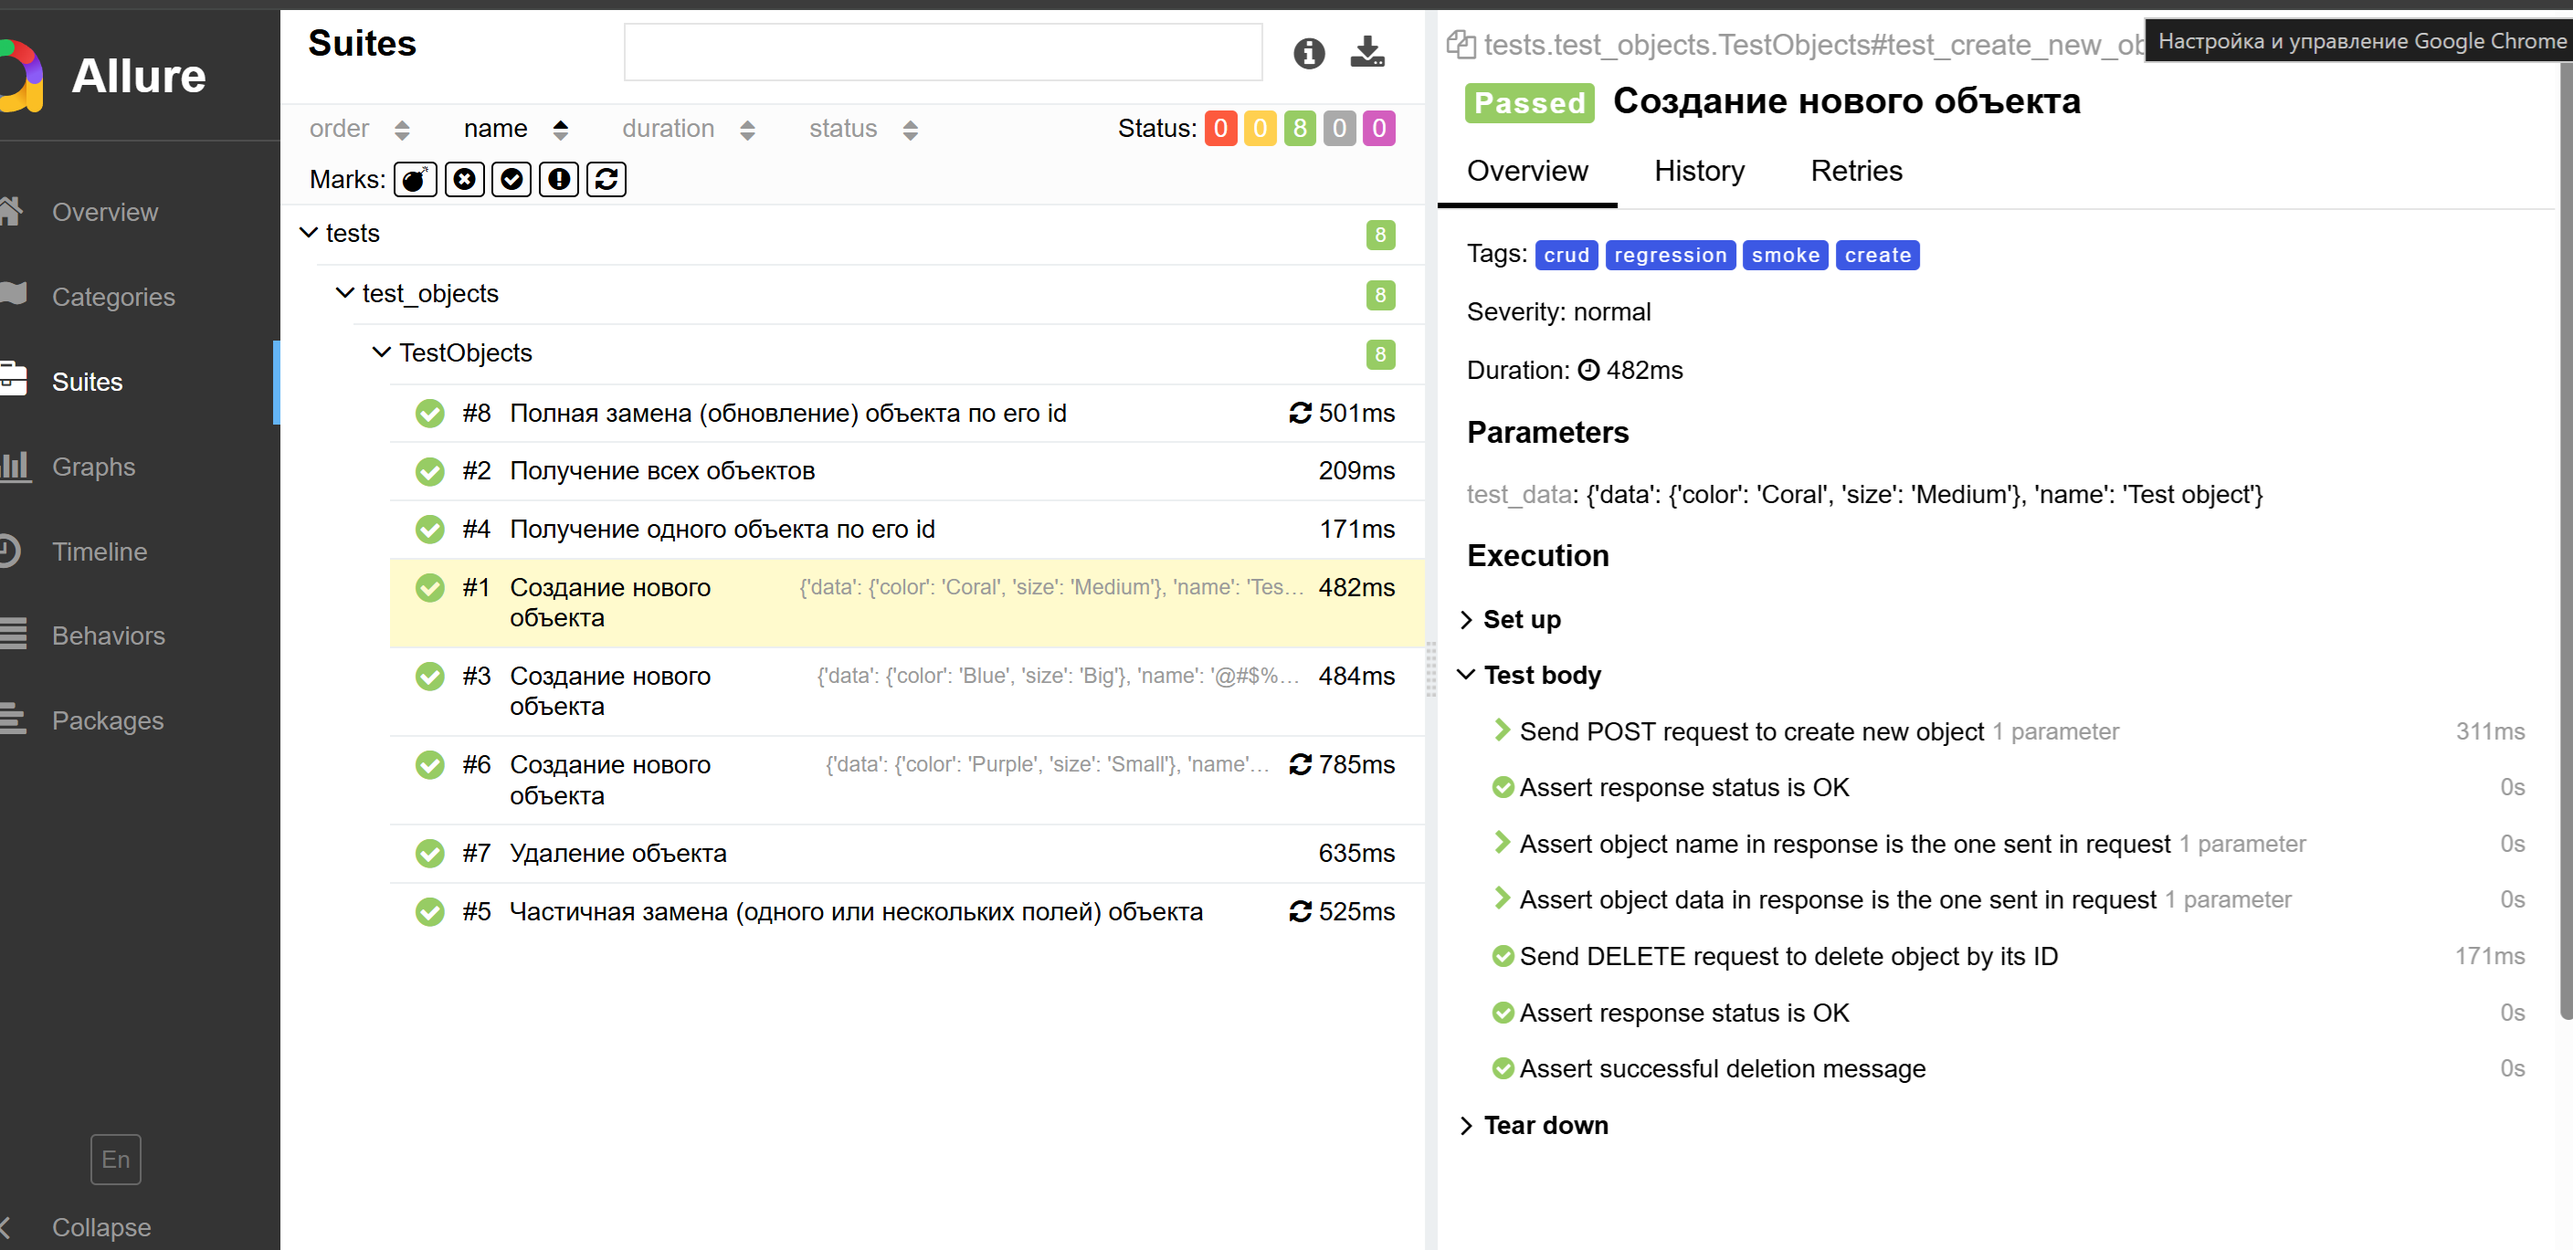
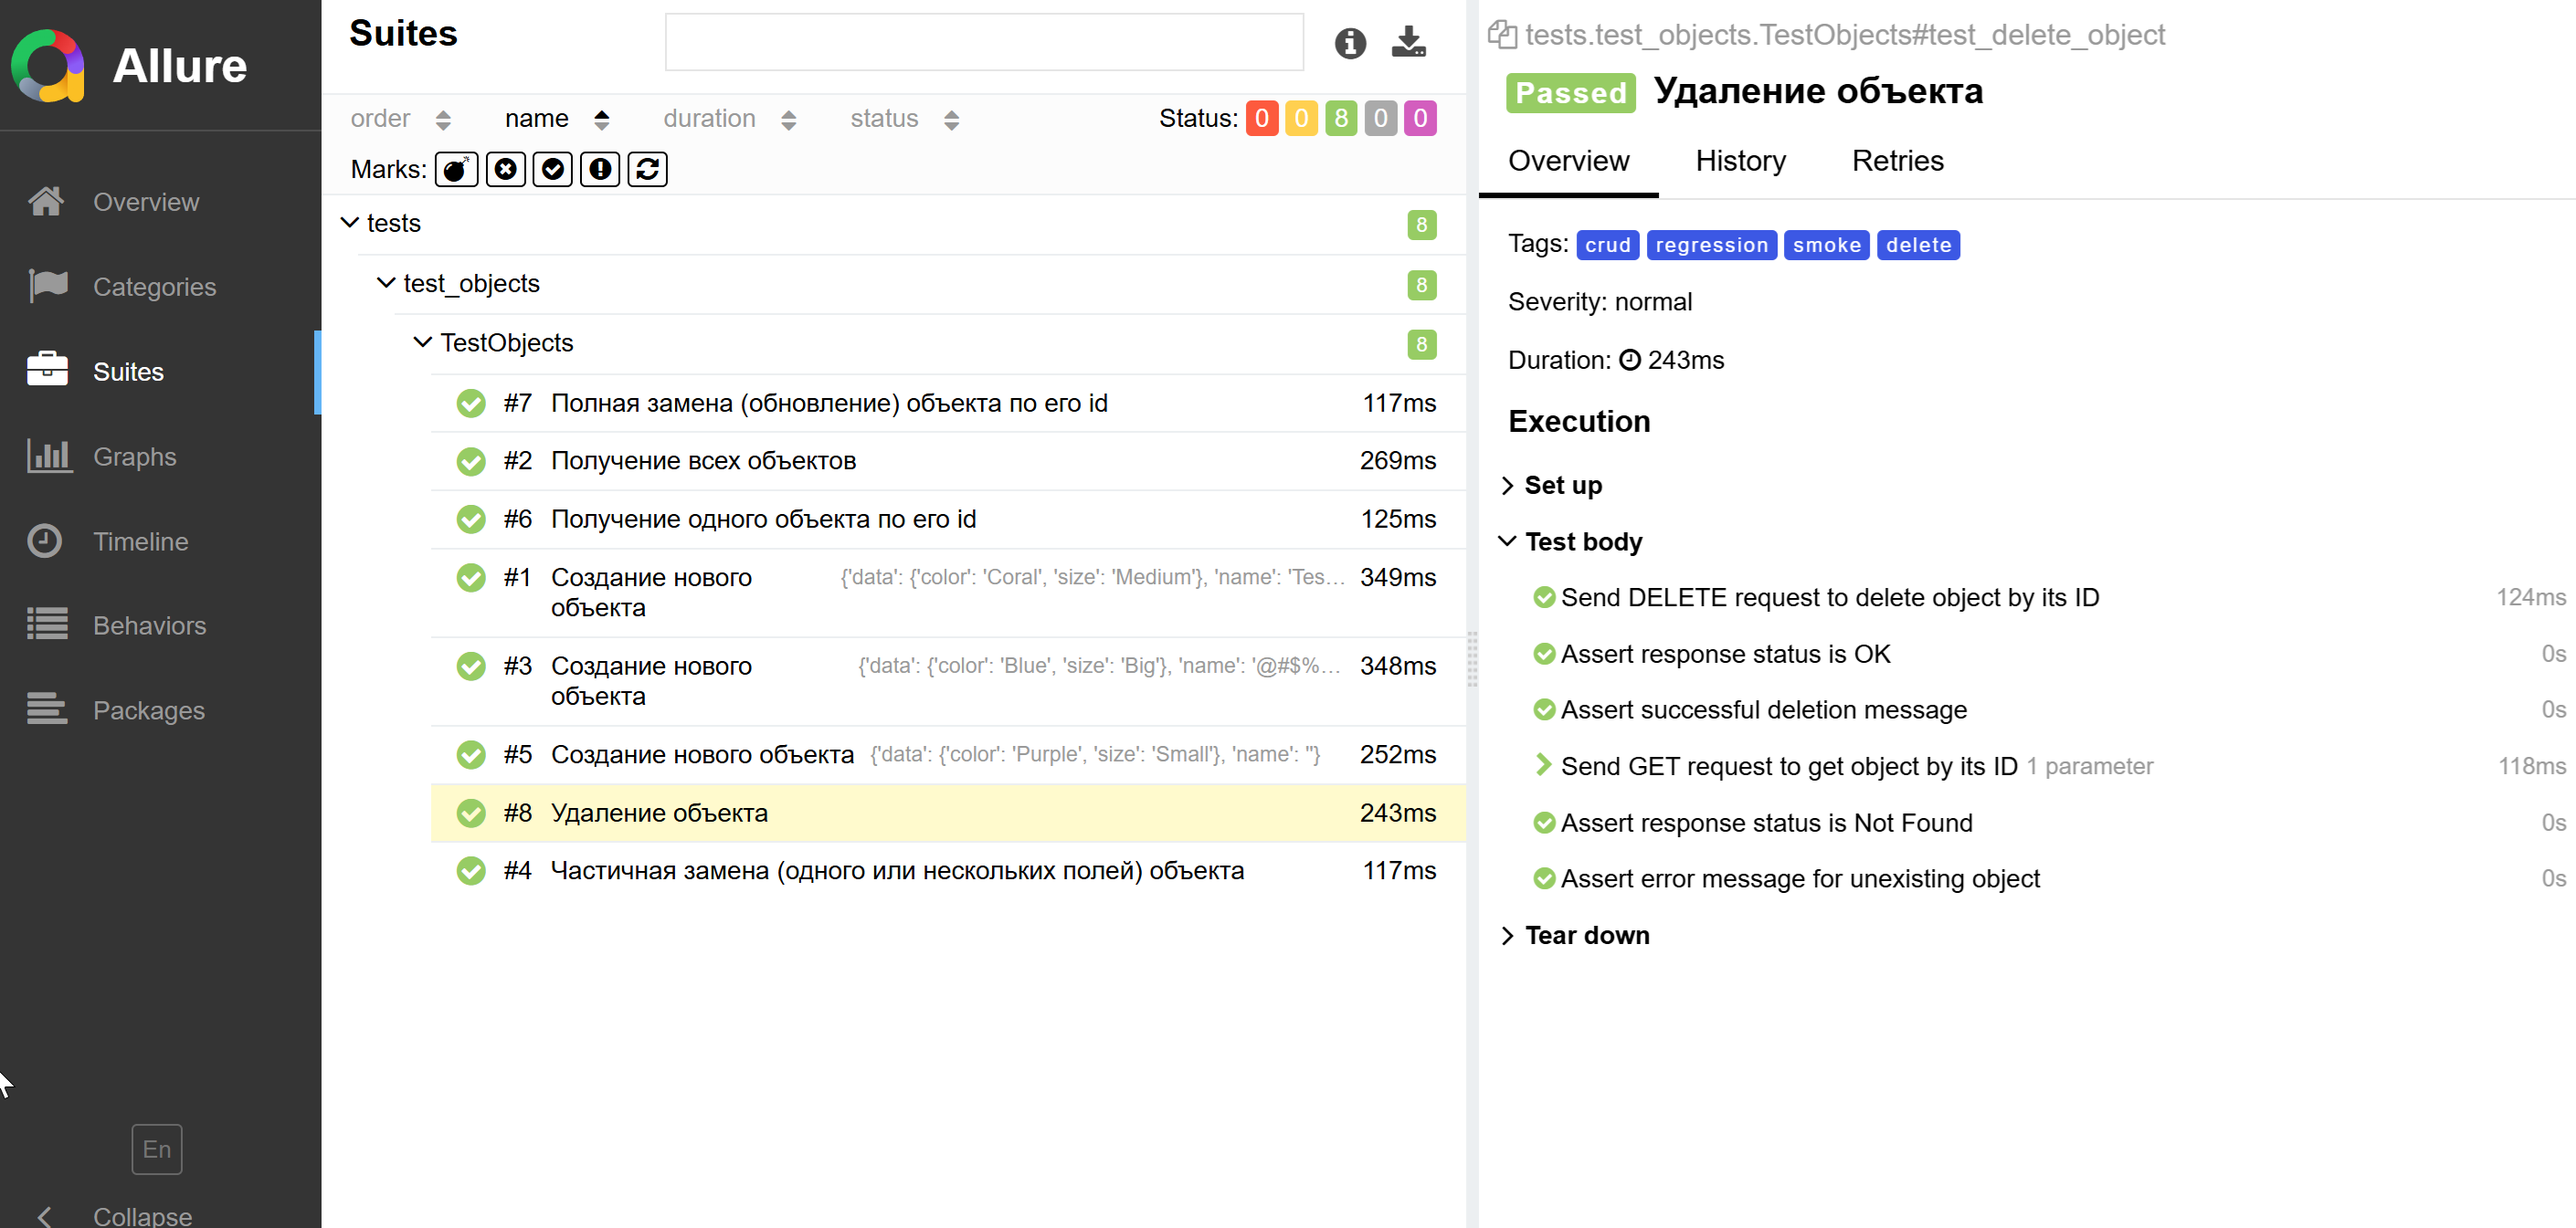
Переделала в соответствии с замечаниями

diff --git a/test_api_belova/tests/test_objects.py b/test_api_belova/tests/test_objects.py
@@ -4,12 +4,10 @@ import pytest
 from test_api_belova.endpoints import (
     CreateObject,
     DeleteObject,
-    GetObjects,
-    GetObject,
     UpdateObject,
     PartiallyUpdateObject,
 )
-from test_api_belova.models import RequestObjectModel
+from test_api_belova.schemas import RequestObjectSchema
 from test_api_belova.test_data import create_data, update_data, patch_data
 
 
@@ -21,10 +19,8 @@ class TestObjects:
     @allure.title('Получение всех объектов')
     @pytest.mark.smoke
     @pytest.mark.get
-    def test_get_all_objects(self):
-        get_objects_api = GetObjects()
-        get_objects_api.get_response()
-
+    def test_get_all_objects(self, get_objects_api):
+        get_objects_api.get_objects()
         get_objects_api.assert_response_is_200()
         get_objects_api.assert_has_objects()
 
@@ -33,13 +29,12 @@ class TestObjects:
     @allure.title('Получение одного объекта по его id')
     @pytest.mark.smoke
     @pytest.mark.get
-    def test_get_object(self, object_data):
-        data, id = object_data
-        get_object_api = GetObject(id)
-        get_object_api.get_response()
+    def test_get_object(self, created_object, get_object_api):
+        data, obj_id = created_object
+        get_object_api.get_object(obj_id)
 
         get_object_api.assert_response_is_200()
-        get_object_api.assert_object_id(id)
+        get_object_api.assert_object_id(obj_id)
         get_object_api.assert_object_name(data)
         get_object_api.assert_object_data(data)
 
@@ -55,31 +50,28 @@ class TestObjects:
     )
     def test_create_new_object(self, test_data):
         create_object_api = CreateObject()
-        create_object_data = RequestObjectModel(**test_data).model_dump()
-        create_object_api.post_response(create_object_data)
+        create_object_data = RequestObjectSchema(**test_data).model_dump()
+        create_object_api.create_object(create_object_data)
 
         create_object_api.assert_response_is_200()
         create_object_api.assert_object_name(create_object_data)
         create_object_api.assert_object_data(create_object_data)
 
-        id = create_object_api.id
-        delete_object_api = DeleteObject(id)
-        delete_object_api.delete_response()
-        delete_object_api.assert_response_is_200()
-        delete_object_api.assert_delete_message()
+        obj_id = create_object_api.id
+        delete_object_api = DeleteObject(obj_id)
+        delete_object_api.delete_object()
 
     @allure.feature('Objects')
     @allure.story('Update object')
     @allure.title('Полная замена (обновление) объекта по его id')
     @pytest.mark.update
-    def test_update_object(self, object_data):
-        id = object_data[1]
-        update_object_api = UpdateObject(id)
-        update_object_data = RequestObjectModel(**update_data).model_dump()
-        update_object_api.put_response(update_object_data)
+    def test_update_object(self, object_id):
+        update_object_api = UpdateObject(object_id)
+        update_object_data = RequestObjectSchema(**update_data).model_dump()
+        update_object_api.update_object(update_object_data)
 
         update_object_api.assert_response_is_200()
-        update_object_api.assert_object_id(id)
+        update_object_api.assert_object_id(object_id)
         update_object_api.assert_object_name(update_object_data)
         update_object_api.assert_object_data(update_object_data)
 
@@ -87,17 +79,17 @@ class TestObjects:
     @allure.story('Partially update object')
     @allure.title('Частичная замена (одного или нескольких полей) объекта')
     @pytest.mark.partially_update
-    def test_partially_update_object(self, object_data):
-        data, id = object_data
-        update_object_api = PartiallyUpdateObject(id)
-        update_object_data = RequestObjectModel(**patch_data).model_dump(
+    def test_partially_update_object(self, created_object, object_id):
+        data = created_object[0]
+        update_object_api = PartiallyUpdateObject(object_id)
+        update_object_data = RequestObjectSchema(**patch_data).model_dump(
             exclude_none=True
         )
-        update_object_api.patch_response(update_object_data)
+        update_object_api.partially_update_object(update_object_data)
         data.update(update_object_data)
 
         update_object_api.assert_response_is_200()
-        update_object_api.assert_object_id(id)
+        update_object_api.assert_object_id(object_id)
         update_object_api.assert_object_name(data)
         update_object_api.assert_object_data(data)
 
@@ -106,18 +98,12 @@ class TestObjects:
     @allure.title('Удаление объекта')
     @pytest.mark.smoke
     @pytest.mark.delete
-    def test_delete_object(self):
-        create_object_api = CreateObject()
-        create_object_data = RequestObjectModel(**create_data[0]).model_dump()
-        create_object_api.post_response(create_object_data)
-
-        id = create_object_api.id
-        delete_object_api = DeleteObject(id)
-        delete_object_api.delete_response()
+    def test_delete_object(self, object_id, get_object_api):
+        delete_object_api = DeleteObject(object_id)
+        delete_object_api.delete_object()
         delete_object_api.assert_response_is_200()
         delete_object_api.assert_delete_message()
 
-        get_object_api = GetObject(id)
-        get_object_api.get_response()
+        get_object_api.get_object(object_id)
         get_object_api.assert_response_is_404()
         get_object_api.assert_error_message()

diff --git a/test_api_belova/endpoints/get_object.py b/test_api_belova/endpoints/get_object.py
@@ -2,7 +2,7 @@ import allure
 import requests
 
 from test_api_belova.endpoints import BaseAPI
-from test_api_belova.models import ResponseObjectsList
+from test_api_belova.schemas import ResponseObjectsSchema
 
 
 class GetObjects(BaseAPI):
@@ -11,7 +11,7 @@ class GetObjects(BaseAPI):
         self.url = self.base_url + '/object'
 
     @allure.step('Send GET request to get all objects')
-    def get_response(self):
+    def get_objects(self):
         self.response = requests.get(self.url)
         self.status_code = self.response.status_code
         if self.status_code != 404:
@@ -19,7 +19,7 @@ class GetObjects(BaseAPI):
 
     @allure.step('Assert there is at least one object in the list')
     def assert_has_objects(self, min_count: int = 1):
-        self.object_data = ResponseObjectsList(**self.json)
+        self.object_data = ResponseObjectsSchema(**self.json)
         responce_data = self.object_data.model_dump()
 
         objects_list = responce_data['data']
@@ -30,16 +30,18 @@ class GetObjects(BaseAPI):
 
 
 class GetObject(BaseAPI):
-    def __init__(self, object_id):
+    def __init__(self):
         super().__init__()
-        self.url = self.base_url + f'/object/{object_id}'
+        self.url = None
         self.expected_text_in_error = 'Not Found'
         self.actual_text_in_error = None
 
-    @allure.step('Send GET request to get object info by its ID')
-    def get_response(self):
+    @allure.step('Send GET request to get object by its ID')
+    def get_object(self, object_id):
+        self.url = self.base_url + f'/object/{object_id}'
         self.response = requests.get(self.url)
         self.status_code = self.response.status_code
+
         if self.status_code != 404:
             self.json = self.response.json()
         self.actual_text_in_error = self.response.text

diff --git a/test_api_belova/conftest.py b/test_api_belova/conftest.py
@@ -1,7 +1,12 @@
 import pytest
 
-from test_api_belova.endpoints import CreateObject, DeleteObject
-from test_api_belova.models import RequestObjectModel
+from test_api_belova.endpoints import (
+    CreateObject,
+    DeleteObject,
+    GetObjects,
+    GetObject,
+)
+from test_api_belova.schemas import RequestObjectSchema
 from test_api_belova.test_data import create_data
 
 
@@ -20,20 +25,28 @@ def before_and_after_each():
 
 
 @pytest.fixture
-def object_data():
-    create_object_api = CreateObject()
-    create_object_data = RequestObjectModel(**create_data[0]).model_dump()
-    create_object_api.post_response(create_object_data)
+def get_objects_api():
+    return GetObjects()
 
-    create_object_api.assert_response_is_200()
-    create_object_api.assert_object_name(create_object_data)
-    create_object_api.assert_object_data(create_object_data)
 
-    id = create_object_api.id
-    yield create_object_data, id
+@pytest.fixture
+def get_object_api():
+    return GetObject()
 
-    id = create_object_api.id
-    delete_object_api = DeleteObject(id)
-    delete_object_api.delete_response()
-    delete_object_api.assert_response_is_200()
-    delete_object_api.assert_delete_message()
+
+@pytest.fixture
+def created_object():
+    create_api = CreateObject()
+    test_data = RequestObjectSchema(**create_data[0]).model_dump()
+    create_api.create_object(test_data)
+    obj_id = create_api.id
+
+    yield test_data, obj_id
+
+    delete_api = DeleteObject(obj_id)
+    delete_api.delete_object()
+
+
+@pytest.fixture
+def object_id(created_object):
+    return created_object[1]

diff --git a/test_api_belova/schemas/objects_schemas.py b/test_api_belova/schemas/objects_schemas.py
@@ -1,13 +1,13 @@
 from pydantic import BaseModel, Field, model_validator
 
 
-class DataModel(BaseModel):
+class DataSchema(BaseModel):
     color: str = Field(description='Цвет объекта')
     size: str = Field(description='Размер объекта')
 
 
-class RequestObjectModel(BaseModel):
-    data: DataModel | None = Field(default=None, description='Данные объекта')
+class RequestObjectSchema(BaseModel):
+    data: DataSchema | None = Field(default=None, description='Данные объекта')
     name: str | None = Field(default=None, description='Название объекта')
 
     @model_validator(mode='after')
@@ -20,13 +20,13 @@ class RequestObjectModel(BaseModel):
         return values
 
 
-class ResponseObjectModel(BaseModel):
-    data: DataModel
+class ResponseObjectSchema(BaseModel):
+    data: DataSchema
     id: int = Field(description='Уникальный идентификатор объекта')
     name: str = Field(description='Название объекта')
 
 
-class ResponseObjectsList(BaseModel):
-    data: list[ResponseObjectModel] = Field(
-        description='Список объектов ResponseObjectModel'
+class ResponseObjectsSchema(BaseModel):
+    data: list[ResponseObjectSchema] = Field(
+        description='Список объектов ResponseObjectSchema'
     )

diff --git a/test_api_belova/endpoints/base_api.py b/test_api_belova/endpoints/base_api.py
@@ -1,9 +1,7 @@
-from json import JSONDecodeError
-
 import allure
 import requests
 
-from test_api_belova.models import ResponseObjectModel
+from test_api_belova.schemas import ResponseObjectSchema
 
 
 class BaseAPI:
@@ -28,7 +26,7 @@ class BaseAPI:
 
     @allure.step('Assert object ID in response is the one sent in request')
     def assert_object_id(self, object_id):
-        self.object_data = ResponseObjectModel(**self.json)
+        self.object_data = ResponseObjectSchema(**self.json)
         response_data = self.object_data.model_dump()
 
         actual_id = response_data['id']
@@ -38,7 +36,7 @@ class BaseAPI:
 
     @allure.step('Assert object name in response is the one sent in request')
     def assert_object_name(self, data):
-        self.object_data = ResponseObjectModel(**self.json)
+        self.object_data = ResponseObjectSchema(**self.json)
         response_data = self.object_data.model_dump()
 
         actual_name = response_data['name']
@@ -49,7 +47,7 @@ class BaseAPI:
 
     @allure.step('Assert object data in response is the one sent in request')
     def assert_object_data(self, data):
-        self.object_data = ResponseObjectModel(**self.json)
+        self.object_data = ResponseObjectSchema(**self.json)
         responce_data = self.object_data.model_dump()
 
         actual_data = responce_data['data']

diff --git a/test_api_belova/endpoints/update_object.py b/test_api_belova/endpoints/update_object.py
@@ -9,8 +9,8 @@ class UpdateObject(BaseAPI):
         super().__init__()
         self.url = self.base_url + f'/object/{object_id}'
 
-    @allure.step('Send PUT request to update object info by its ID')
-    def put_response(self, data):
+    @allure.step('Send PUT request to fully update object by its ID')
+    def update_object(self, data):
         self.response = requests.put(self.url, json=data)
         self.status_code = self.response.status_code
         self.json = self.response.json()
@@ -21,8 +21,10 @@ class PartiallyUpdateObject(BaseAPI):
         super().__init__()
         self.url = self.base_url + f'/object/{object_id}'
 
-    @allure.step('Send PATCH request to update object info by its ID')
-    def patch_response(self, data):
+    @allure.step(
+        'Send PATCH request to partially update object info by its ID'
+    )
+    def partially_update_object(self, data):
         self.response = requests.patch(self.url, json=data)
         self.status_code = self.response.status_code
         self.json = self.response.json()

diff --git a/test_api_belova/endpoints/delete_object.py b/test_api_belova/endpoints/delete_object.py
@@ -14,7 +14,7 @@ class DeleteObject(BaseAPI):
         self.actual_message = None
 
     @allure.step('Send DELETE request to delete object by its ID')
-    def delete_response(self):
+    def delete_object(self):
         self.response = requests.delete(self.url)
         self.status_code = self.response.status_code
         self.actual_message = self.response.text

diff --git a/test_api_belova/endpoints/create_object.py b/test_api_belova/endpoints/create_object.py
@@ -11,7 +11,7 @@ class CreateObject(BaseAPI):
         self.id = None
 
     @allure.step('Send POST request to create new object')
-    def post_response(self, data):
+    def create_object(self, data):
         self.response = requests.post(self.url, json=data)
         self.status_code = self.response.status_code
         self.json = self.response.json()

diff --git a/test_api_belova/schemas/__init__.py b/test_api_belova/schemas/__init__.py
@@ -1,0 +1,11 @@
+__all__ = [
+    'RequestObjectSchema',
+    'ResponseObjectSchema',
+    'ResponseObjectsSchema',
+]
+
+from test_api_belova.schemas.objects_schemas import (
+    RequestObjectSchema,
+    ResponseObjectSchema,
+    ResponseObjectsSchema,
+)

diff --git a/test_api_belova/test_data/objects_data.py b/test_api_belova/test_data/objects_data.py
@@ -1,9 +1,3 @@
-from faker import Faker
-
-faker = Faker()
-
-sizes = ['small', 'medium', 'big', 'huge']
-
 create_data = [
     {
         'data': {
